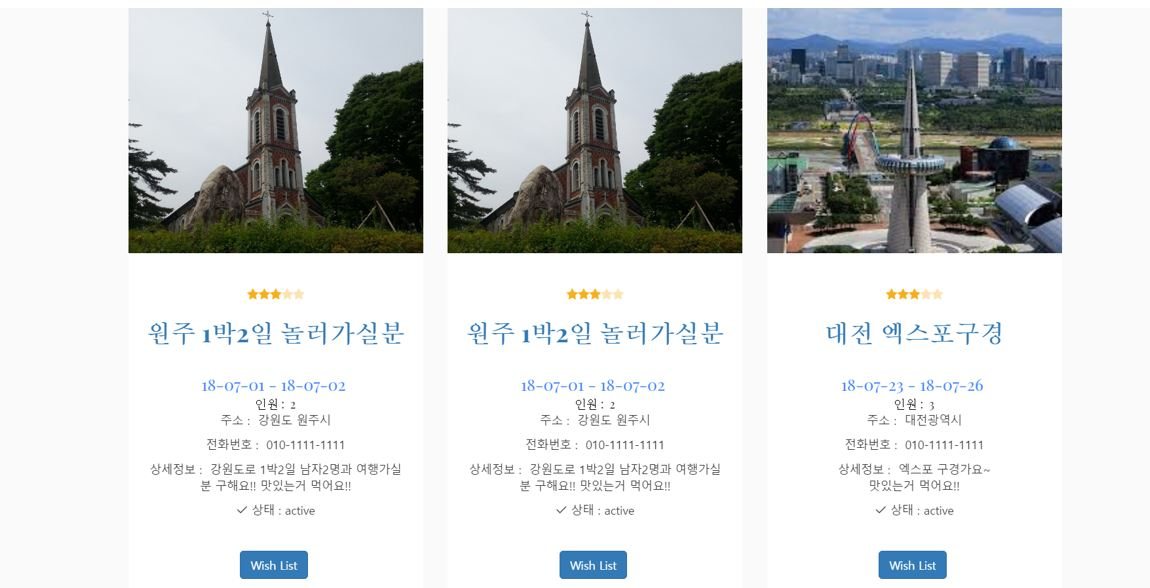
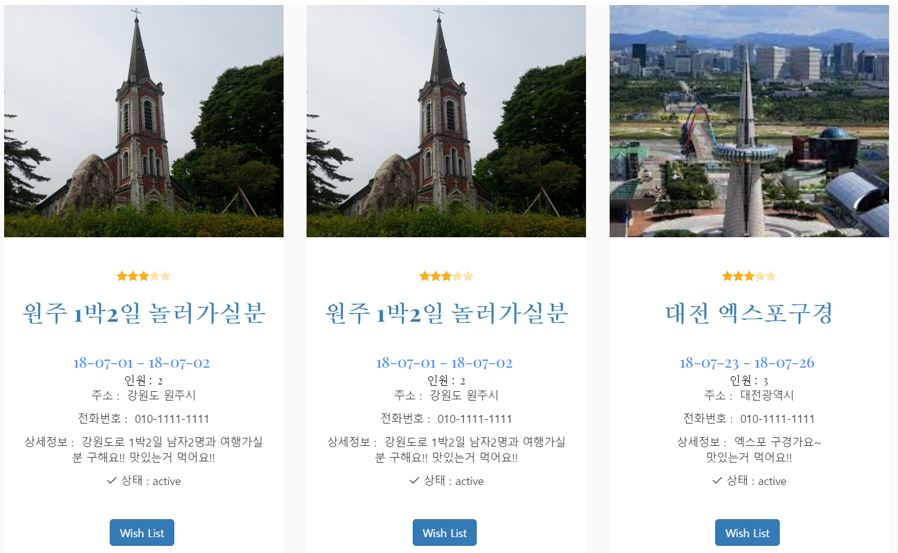
dd

diff --git a/work.html b/work.html
@@ -160,7 +160,8 @@ permalink: /work/
           <br>
           <h3>Culture & Art</h3><br>
           <img src="{{ site.baseurl }}/img/portfolio/Spring_1/IMG_Spring_1_culture.jpg" style="max-width: 100%; height: auto;">>
-
+          <h3>Wishlist</h3><br>
+          <img src="{{ site.baseurl }}/img/portfolio/Spring_1/IMG_Spring_1_wishlist.jpg" style="max-width: 100%; height: auto;">>
         </div>
 
 
